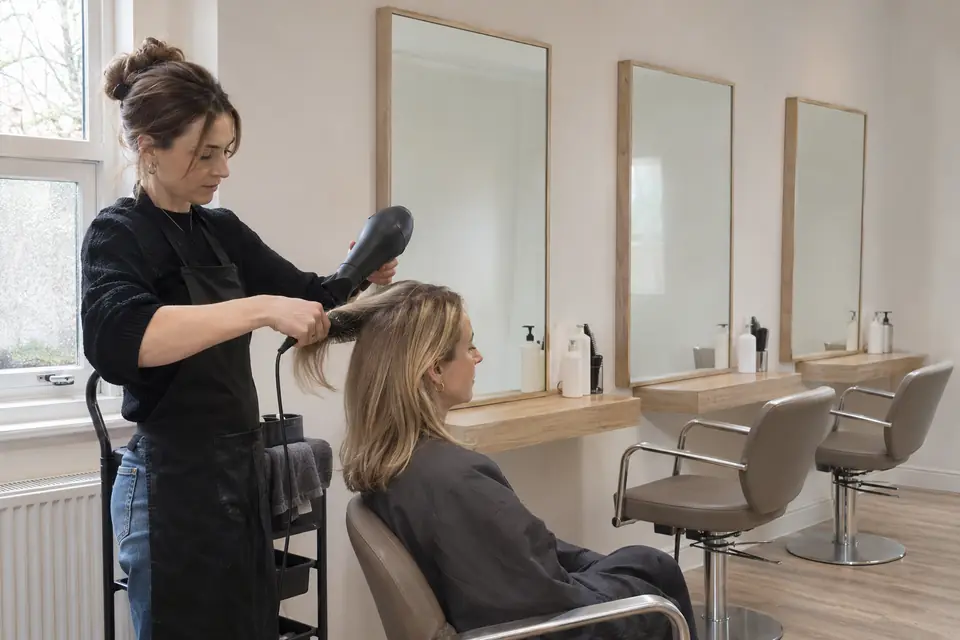
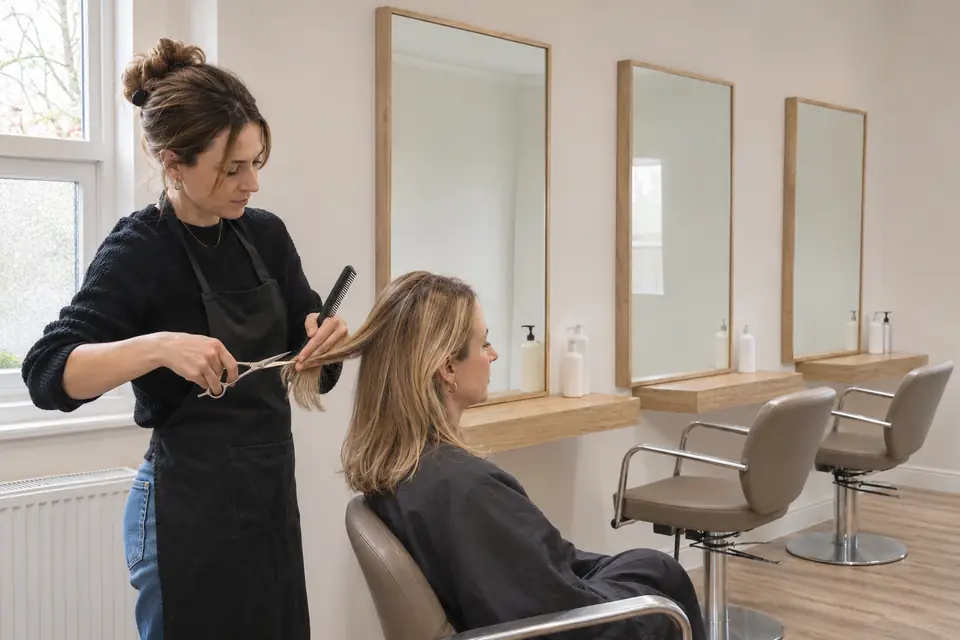
feat(frontend): regenerated salon and music teacher photos

diff --git a/frontend/src/components/marketing/landing/examples/cards.ts b/frontend/src/components/marketing/landing/examples/cards.ts
@@ -26,7 +26,7 @@ export const EXAMPLE_CARDS: ExampleCard[] = [
     shape: "Three hairdressers, three chairs",
     types: "Cuts, colour, highlights and more",
     photo: "hair-salon",
-    alt: "A hairdresser blow-drying a client's hair in a bright salon",
+    alt: "A hairdresser cutting a client's hair in a bright salon",
   },
   {
     slug: "gp-practice",
